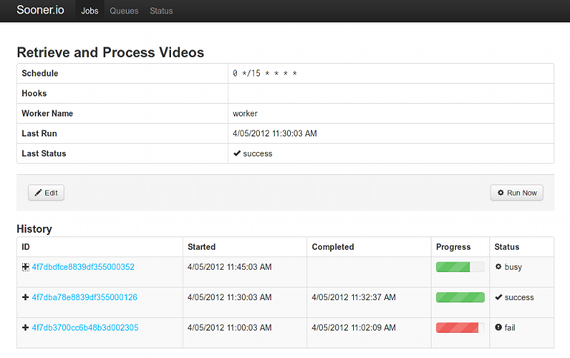
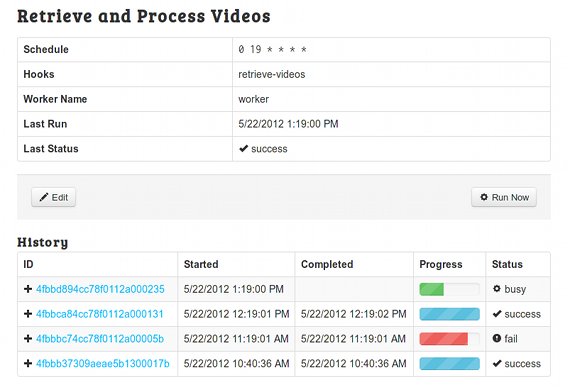
Updated screenshots and added 'git deployment'

diff --git a/index.html b/index.html
@@ -9,13 +9,14 @@
 
     <link href="css/bootstrap.min.css" rel="stylesheet">
     <link href="css/bootstrap-responsive.min.css" rel="stylesheet">
-    <link href='http://fonts.googleapis.com/css?family=Happy+Monkey' rel='stylesheet' type='text/css'>
+    <link href='http://fonts.googleapis.com/css?family=Bree+Serif' rel='stylesheet' type='text/css'>
     <style type="text/css">
       body      { padding: 25px 10px; }
-      h1,h2     { font-family: "Happy Monkey", Arial, Helvetica, sans-serif;
+      h1,h2     { font-family: "Bree Serif", Arial, Helvetica, sans-serif;
                   color: #b00000; }
       h1        { margin-bottom: 25px;
                   font-size: 28pt; }
+      .pique    { color: #bbb; }
       h2        { margin-bottom: 15px; }
       p         { margin-bottom: 15px; }
       .border   { border: 1px solid #ddd; }
@@ -47,7 +48,10 @@
     <div class="container">
       <div class="row">
         <div class="span9 offset1">
-          <h1>Sooner.io</h1>
+          <h1>
+            Sooner.io
+            <span class="pique">Distributed, Managed Cron</span>
+          </h1>
 
           <div class="row">
             <div class="span6">
@@ -103,12 +107,23 @@
 
           <div class="row push">
             <div class="span6">
+              <img src="img/git-push.png" class="border" alt="Git-Based Script Updates">
+            </div>
+            <div class="span3">
+              <h2>Git-Based Script Deployment</h2>
+              <p>Edit your scripts using your favorite editor, and push with your favorite distributed VCS: Git!</p>
+              <p>All your scripts are versioned, and you get to edit from the comfort of your own dev environment.</p>
+            </div>
+          </div>
+
+          <div class="row push">
+            <div class="span6">
               <img src="img/output.png" class="border" alt="Running Job Console Output"/>
             </div>
             <div class="span3">
               <h2>Console Output</h2>
               <p>All script output is captured, you can log as much as you want using <code>console.log()</code> (JavaScript/CoffeeScript), <code>echo</code> (Bash), or whatever.
-                Output is displayed line-by-line in real-time on the job page.</p>
+                Output is displayed line-by-line in real-time in the job management web interface.</p>
             </div>
           </div>
 
